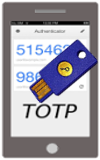
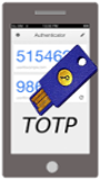
Cleaning unuseful code & improve tmpl (#1386)

diff --git a/lemonldap-ng-portal/site/htdocs/static/common/js/u2fregistration.min.js b/lemonldap-ng-portal/site/htdocs/static/common/js/u2fregistration.min.js
@@ -1,1 +1,1 @@
-(function(){var a,c,d,b,e;d=function(f,g){$("#msg").html(window.translate(f));$("#color").removeClass("message-positive message-warning alert-success alert-warning");$("#color").addClass("message-"+g);if(g==="positive"){g="success"}return $("#color").addClass("alert-"+g)};a=function(g,f,i){var h;console.log("Error",i);h=JSON.parse(g.responseText);if(h&&h.error){h=h.error.replace(/.* /,"");console.log("Returned error",h);return d(h,"warning")}};c=function(){return $.ajax({type:"POST",url:portal+"2fregisters/u/register",data:{},dataType:"json",error:a,success:function(f){var g;g=[{challenge:f.challenge,version:f.version}];d("touchU2fDevice","positive");$("#u2fPermission").show();return u2f.register(f.appId,g,[],function(h){$("#u2fPermission").hide();if(h.errorCode){return d(h.error,"warning")}else{return $.ajax({type:"POST",url:portal+"2fregisters/u/registration",data:{registration:JSON.stringify(h),challenge:JSON.stringify(f),keyName:$("#keyName").val()},dataType:"json",success:function(i){if(i.error){return d("u2fFailed","warning")}else{if(i.result){return d("yourKeyIsRegistered","positive")}}},error:a})}})}})};b=function(){return $.ajax({type:"POST",url:portal+"2fregisters/u/unregistration",data:{},dataType:"json",error:a,success:function(f){if(f.error){return d("u2fFailed","warning")}else{if(f.result){return d("yourKeyIsUnregistered","positive")}}},error:a})};e=function(){return $.ajax({type:"POST",url:portal+"2fregisters/u/verify",data:{},dataType:"json",error:a,success:function(f){var g;g=[{keyHandle:f.keyHandle,version:f.version}];d("touchU2fDevice","positive");return u2f.sign(f.appId,f.challenge,g,function(h){if(h.errorCode){return d("unableToGetU2FKey","warning")}else{return $.ajax({type:"POST",url:portal+"2fregisters/u/signature",data:{signature:JSON.stringify(h),challenge:f.challenge},dataType:"json",success:function(i){if(i.error){return d("u2fFailed","warning")}else{if(i.result){return d("yourKeyIsVerified","positive")}}},error:function(k,i,l){return console.log("error",l)}})}})}})};$(document).ready(function(){$("#u2fPermission").hide();$("#register").on("click",c);$("#unregister").on("click",b);$("#verify").on("click",e);return $("#goback").attr("href",portal)})}).call(this);
+(function(){var a,b,c,d;c=function(e,f){$("#msg").html(window.translate(e));$("#color").removeClass("message-positive message-warning alert-success alert-warning");$("#color").addClass("message-"+f);if(f==="positive"){f="success"}return $("#color").addClass("alert-"+f)};a=function(f,e,h){var g;console.log("Error",h);g=JSON.parse(f.responseText);if(g&&g.error){g=g.error.replace(/.* /,"");console.log("Returned error",g);return c(g,"warning")}};b=function(){return $.ajax({type:"POST",url:portal+"2fregisters/u/register",data:{},dataType:"json",error:a,success:function(e){var f;f=[{challenge:e.challenge,version:e.version}];c("touchU2fDevice","positive");$("#u2fPermission").show();return u2f.register(e.appId,f,[],function(g){$("#u2fPermission").hide();if(g.errorCode){return c(g.error,"warning")}else{return $.ajax({type:"POST",url:portal+"2fregisters/u/registration",data:{registration:JSON.stringify(g),challenge:JSON.stringify(e),keyName:$("#keyName").val()},dataType:"json",success:function(h){if(h.error){return c("u2fFailed","warning")}else{if(h.result){return c("yourKeyIsRegistered","positive")}}},error:a})}})}})};d=function(){return $.ajax({type:"POST",url:portal+"2fregisters/u/verify",data:{},dataType:"json",error:a,success:function(e){var f;f=[{keyHandle:e.keyHandle,version:e.version}];c("touchU2fDevice","positive");return u2f.sign(e.appId,e.challenge,f,function(g){if(g.errorCode){return c("unableToGetU2FKey","warning")}else{return $.ajax({type:"POST",url:portal+"2fregisters/u/signature",data:{signature:JSON.stringify(g),challenge:e.challenge},dataType:"json",success:function(h){if(h.error){return c("u2fFailed","warning")}else{if(h.result){return c("yourKeyIsVerified","positive")}}},error:function(i,h,k){return console.log("error",k)}})}})}})};$(document).ready(function(){$("#u2fPermission").hide();$("#register").on("click",b);$("#verify").on("click",d);return $("#goback").attr("href",portal)})}).call(this);

diff --git a/lemonldap-ng-portal/site/htdocs/static/common/js/totpregistration.min.js b/lemonldap-ng-portal/site/htdocs/static/common/js/totpregistration.min.js
@@ -1,1 +1,1 @@
-(function(){var a,b,e,d,c,f;e=function(g,h){$("#msg").html(window.translate(g));$("#color").removeClass("message-positive message-warning message-danger alert-success alert-warning alert-danger");$("#color").addClass("message-"+h);if(h==="positive"){h="success"}return $("#color").addClass("alert-"+h)};a=function(h,g,k){var i;console.log("Error",k);i=JSON.parse(h.responseText);if(i&&i.error){i=i.error.replace(/.* /,"");console.log("Returned error",i);return e(i,"warning")}};d="";b=function(g){e("yourTotpKey","warning");return $.ajax({type:"POST",url:portal+"/2fregisters/totp/getkey",dataType:"json",data:{newkey:g},error:a,success:function(j){var h,i;if(j.error){return e(j.error,"warning")}if(!(j.portal&&j.user&&j.secret)){return e("PE24","danger")}i="otpauth://totp/"+(escape(j.portal))+":"+(escape(j.user))+"?secret="+j.secret+"&issuer="+(escape(j.portal));if(j.digits!==6){i+="&digits="+j.digits}if(j.interval!==30){i+="&period="+j.interval}h=new QRious({element:document.getElementById("qr"),value:i,size:150});$("#serialized").text(i);if(j.newkey){e("yourNewTotpKey","warning")}else{e("yourTotpKey","success")}return d=j.token}})};f=function(){var g;g=$("#code").val();if(!g){return e("fillTheForm","warning")}else{return $.ajax({type:"POST",url:portal+"/2fregisters/totp/verify",dataType:"json",data:{token:d,code:g,TOTPName:$("#TOTPName").val()},error:a,success:function(h){if(h.error){if(h.error.match(/badCode/)){return e("badCode","warning")}else{return e(h.error,"danger")}}else{return e("yourKeyIsRegistered","success")}}})}};c=function(){return $.ajax({type:"POST",url:portal+"/totpregister/unregister",data:{},dataType:"json",error:a,success:function(g){}},e("yourKeyIsUnregistered","success"))};$(document).ready(function(){b(0);$("#changekey").on("click",function(){return b(1)});$("#verify").on("click",function(){return f()});return $("#unregister").on("click",function(){return c()})})}).call(this);
+(function(){var a,b,d,c,e;d=function(f,g){$("#msg").html(window.translate(f));$("#color").removeClass("message-positive message-warning message-danger alert-success alert-warning alert-danger");$("#color").addClass("message-"+g);if(g==="positive"){g="success"}return $("#color").addClass("alert-"+g)};a=function(g,f,i){var h;console.log("Error",i);h=JSON.parse(g.responseText);if(h&&h.error){h=h.error.replace(/.* /,"");console.log("Returned error",h);return d(h,"warning")}};c="";b=function(f){d("yourTotpKey","warning");return $.ajax({type:"POST",url:portal+"/2fregisters/totp/getkey",dataType:"json",data:{newkey:f},error:a,success:function(i){var g,h;if(i.error){return d(i.error,"warning")}if(!(i.portal&&i.user&&i.secret)){return d("PE24","danger")}h="otpauth://totp/"+(escape(i.portal))+":"+(escape(i.user))+"?secret="+i.secret+"&issuer="+(escape(i.portal));if(i.digits!==6){h+="&digits="+i.digits}if(i.interval!==30){h+="&period="+i.interval}g=new QRious({element:document.getElementById("qr"),value:h,size:150});$("#serialized").text(h);if(i.newkey){d("yourNewTotpKey","warning")}else{d("yourTotpKey","success")}return c=i.token}})};e=function(){var f;f=$("#code").val();if(!f){return d("fillTheForm","warning")}else{return $.ajax({type:"POST",url:portal+"/2fregisters/totp/verify",dataType:"json",data:{token:c,code:f,TOTPName:$("#TOTPName").val()},error:a,success:function(g){if(g.error){if(g.error.match(/badCode/)){return d("badCode","warning")}else{return d(g.error,"danger")}}else{return d("yourKeyIsRegistered","success")}}})}};$(document).ready(function(){b(0);$("#changekey").on("click",function(){return b(1)});return $("#verify").on("click",function(){return e()})})}).call(this);

diff --git a/lemonldap-ng-portal/site/htdocs/static/common/js/u2fregistration.js b/lemonldap-ng-portal/site/htdocs/static/common/js/u2fregistration.js
@@ -5,7 +5,7 @@ LemonLDAP::NG U2F registration script
  */
 
 (function() {
-  var displayError, register, setMsg, unregister, verify;
+  var displayError, register, setMsg, verify;
 
   setMsg = function(msg, level) {
     $('#msg').html(window.translate(msg));
@@ -74,24 +74,6 @@ LemonLDAP::NG U2F registration script
     });
   };
 
-  unregister = function() {
-    return $.ajax({
-      type: "POST",
-      url: portal + "2fregisters/u/unregistration",
-      data: {},
-      dataType: 'json',
-      error: displayError,
-      success: function(resp) {
-        if (resp.error) {
-          return setMsg('u2fFailed', 'warning');
-        } else if (resp.result) {
-          return setMsg('yourKeyIsUnregistered', 'positive');
-        }
-      },
-      error: displayError
-    });
-  };
-
   verify = function() {
     return $.ajax({
       type: "POST",
@@ -140,7 +122,6 @@ LemonLDAP::NG U2F registration script
   $(document).ready(function() {
     $('#u2fPermission').hide();
     $('#register').on('click', register);
-    $('#unregister').on('click', unregister);
     $('#verify').on('click', verify);
     return $('#goback').attr('href', portal);
   });

diff --git a/lemonldap-ng-portal/site/htdocs/static/common/js/totpregistration.js b/lemonldap-ng-portal/site/htdocs/static/common/js/totpregistration.js
@@ -5,7 +5,7 @@ LemonLDAP::NG TOTP registration script
  */
 
 (function() {
-  var displayError, getKey, setMsg, token, unregister, verify;
+  var displayError, getKey, setMsg, token, verify;
 
   setMsg = function(msg, level) {
     $('#msg').html(window.translate(msg));
@@ -102,27 +102,13 @@ LemonLDAP::NG TOTP registration script
     }
   };
 
-  unregister = function() {
-    return $.ajax({
-      type: "POST",
-      url: portal + "/totpregister/unregister",
-      data: {},
-      dataType: 'json',
-      error: displayError,
-      success: function(data) {}
-    }, setMsg('yourKeyIsUnregistered', 'success'));
-  };
-
   $(document).ready(function() {
     getKey(0);
     $('#changekey').on('click', function() {
       return getKey(1);
     });
-    $('#verify').on('click', function() {
+    return $('#verify').on('click', function() {
       return verify();
-    });
-    return $('#unregister').on('click', function() {
-      return unregister();
     });
   });
 
